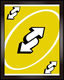
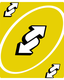
art(card-expand): _min 改回无框画面（零售 HUD 图标不带框，只有 _max 带框）—— 无框画面留档 cards/_art/NAME.png（fit_card 自动写），cardframe.py 的 _min 从它出；abcard.anm 重建
Claude-Session: https://claude.ai/code/session_01ComgjvUHb7YY3pSUiga1gt

diff --git a/mods/th18.v1.00a/card-expand/assets/cardframe.py b/mods/th18.v1.00a/card-expand/assets/cardframe.py
@@ -1,8 +1,10 @@
 #!/usr/bin/env python3
 """给 256×320 的卡图加零售同款边框（程序合成，不含零售像素）。
 
-    python3 cardframe.py                 # 给 cards/*_max.png 全部补框（已补过的跳过），并重出 _min
+    python3 cardframe.py                 # 给 cards/*_max.png 全部补框（已补过的跳过）；_min 一律从 cards/_art/NAME.png（无框画面）重出
     python3 cardframe.py NAME [NAME…]    # 只处理这几张
+
+零售 _min 是裸画面（64×80，无框）——HUD 卡组图标不带框；只有 _max 带框。所以无框画面要留一份：cards/_art/NAME.png（256×320）。
 
 零售 abcard 的框（117 张逐像素一致，量自 KANAME_max / ALICE_OP_max）：
   外圈 3 px 纯黑 → 13 px 深色斜面 → 2 px 纯黑 → 画面区 220×284（每边内缩 18 px）。
@@ -88,15 +90,25 @@ def save_framed(im: Image.Image, path: Path):
     im.save(path, pnginfo=meta)
 
 
+ART = CARDS / "_art"
+
+
+def save_min_from_art(name: str, art: Image.Image):
+    """_min = 无框画面缩到 64×80（零售同款：HUD 图标不带框）。"""
+    art.convert("RGBA").resize((MIN_W, MIN_H), Image.LANCZOS).save(CARDS / f"{name}_min.png")
+
+
 def reframe(name: str) -> bool:
-    big = CARDS / f"{name}_max.png"
+    big, art_path = CARDS / f"{name}_max.png", ART / f"{name}.png"
+    if not art_path.exists():
+        raise SystemExit(f"{name}: 缺 {art_path.relative_to(HERE)}（无框画面）——用 fit_card.py 重出，或从旧版本恢复")
+    art = Image.open(art_path)
+    save_min_from_art(name, art)
     if is_framed(big):
-        print(f"{name}: already framed, skip")
+        print(f"{name}: _max already framed; _min regenerated from _art")
         return False
-    out = apply_frame(Image.open(big))
-    save_framed(out, big)
-    out.resize((MIN_W, MIN_H), Image.LANCZOS).save(CARDS / f"{name}_min.png")
-    print(f"{name}: framed (art 220x284 inside 256x320), _min regenerated")
+    save_framed(apply_frame(art), big)
+    print(f"{name}: _max framed (art 220x284 inside 256x320), _min from _art")
     return True
 
 

diff --git a/mods/th18.v1.00a/card-expand/assets/fit_card.py b/mods/th18.v1.00a/card-expand/assets/fit_card.py
@@ -65,12 +65,15 @@ def main():
     out = Path(a.out)
     out.mkdir(parents=True, exist_ok=True)
     big = fit(a.src, a.trim, a.bg, not a.no_detect, a.margin, a.fill)
+    art = big
+    (out / "_art").mkdir(exist_ok=True)
+    art.save(out / "_art" / f"{a.name}.png")                  # 无框画面留档：_min 与以后重出框都从它来
     if a.no_frame:
         big.save(out / f"{a.name}_max.png")
     else:
         big = cardframe.apply_frame(big)                      # 零售同款边框（画面等比覆盖 220×284）
         cardframe.save_framed(big, out / f"{a.name}_max.png")
-    big.resize((MIN_W, MIN_H), Image.LANCZOS).save(out / f"{a.name}_min.png")
+    art.resize((MIN_W, MIN_H), Image.LANCZOS).save(out / f"{a.name}_min.png")   # _min 不带框（零售同款）
     print(f"{a.name}: {a.name}_max.png {MAX_W}x{MAX_H} · {a.name}_min.png {MIN_W}x{MIN_H}  ← {a.src.name}"
           f"{'  [fill]' if a.fill else ''}")
     return 0

diff --git a/mods/th18.v1.00a/card-expand/assets/README.md b/mods/th18.v1.00a/card-expand/assets/README.md
@@ -13,6 +13,7 @@
 | `cards/<NAME>_max.png` | **256×320** RGBA | 大图：编成 / 商店 / 图鉴用 |
 | `cards/<NAME>_min.png` | **64×80** RGBA | 小图：HUD 卡组图标 |
 | `cards/ORDER.txt` | 一行一个 `NAME` | **只追加**。行号决定 sprite 号 |
+| `cards/_art/<NAME>.png` | 256×320 RGBA | 无框画面（`fit_card.py` 自动留档）：`_min` 与重出框的源 |
 
 `NAME` 建议用卡的 `internal_name`（如 `SPADE_10`）。尺寸不对构建直接报错。
 两种出图方式：
@@ -23,7 +24,7 @@
 
 **边框**：零售 117 张卡共用同一个框（外 3 px 黑 → 13 px 深色斜面、边中高光 → 内 2 px 黑，画面区 220×284）。
 `cardframe.py` 按量出来的参数程序合成它（仓库里不放零售像素），`fit_card.py` 默认套上（`--no-frame` 关）；
-`python3 cardframe.py` 给 `cards/*_max.png` 补框并重出 `_min`（PNG 里记 `renkolab-frame=1`，重复跑不会套两层）。
+**零售的 `_min`（HUD 图标）不带框**，所以无框画面留在 `cards/_art/NAME.png`，`_min` 从它缩出；`python3 cardframe.py` 给 `_max` 补框、从 `_art` 重出 `_min`（PNG 里记 `renkolab-frame=1`，重复跑不会套两层）。
 画面按等比覆盖 220×284 居中裁（宽裁 ~1.4%），不拉伸。`ability.anm` 里的卡图副本引用同一批 PNG，一起带框。
 
 ## 索引怎么来
